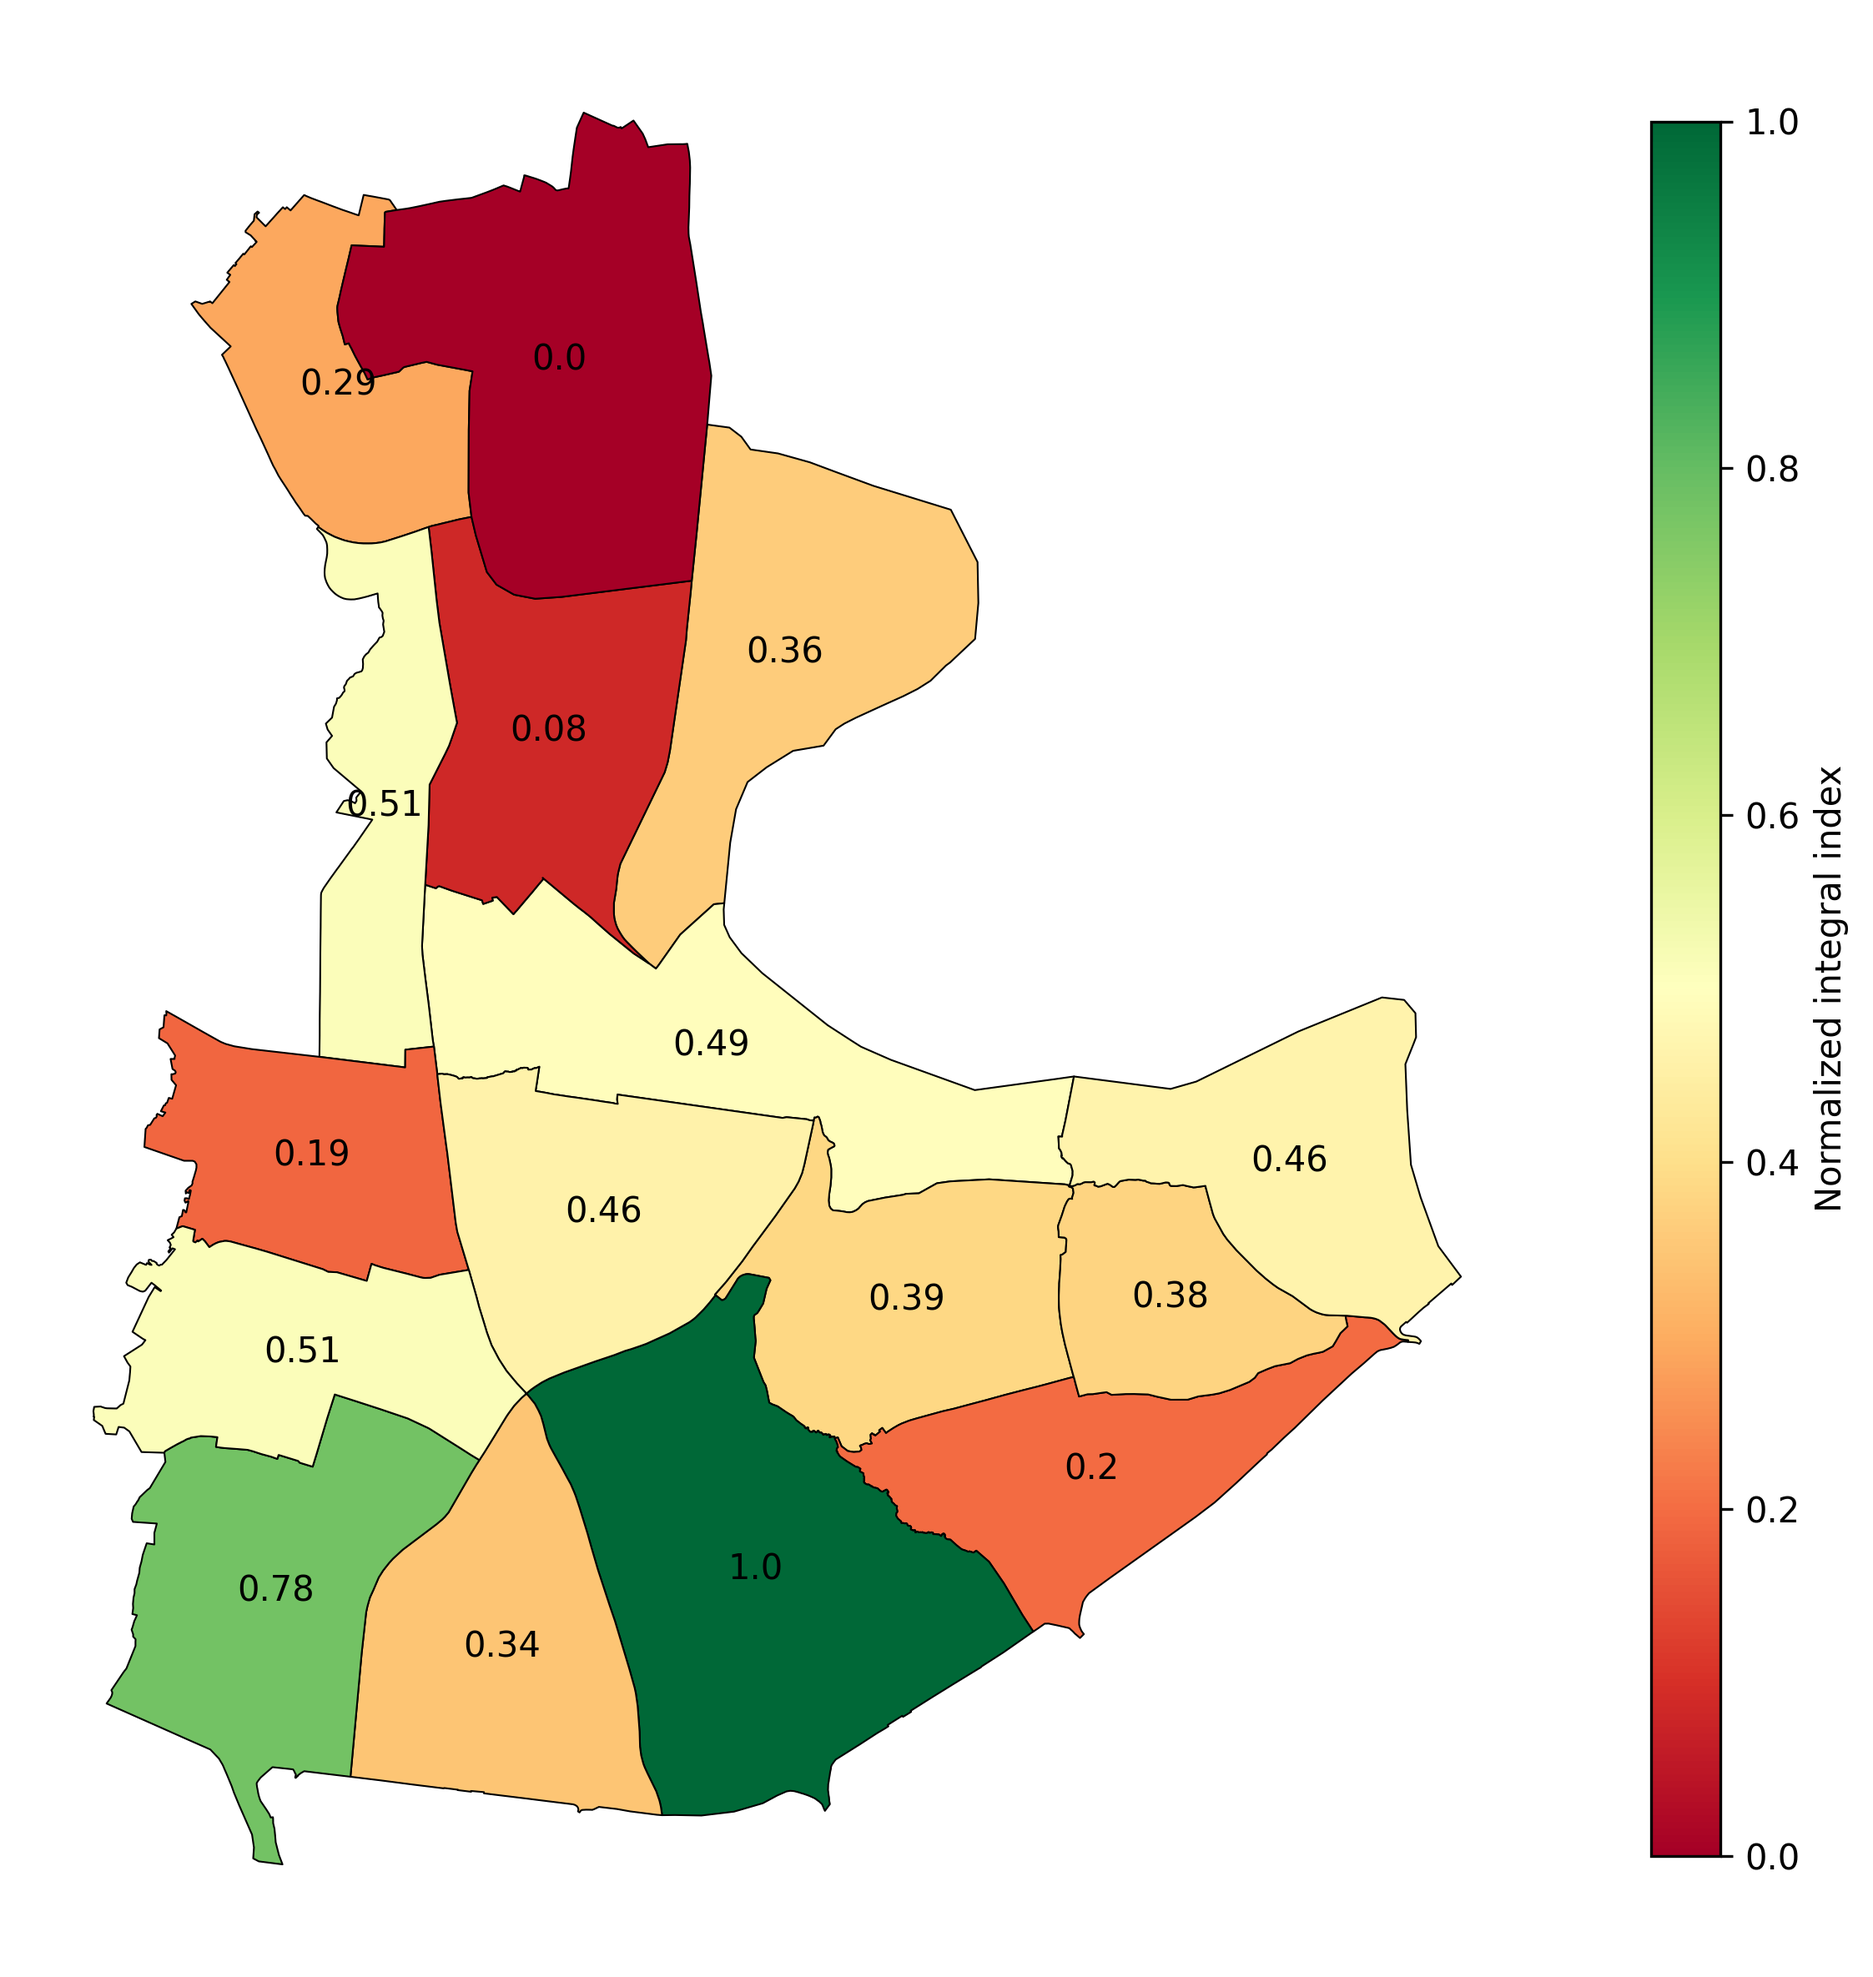
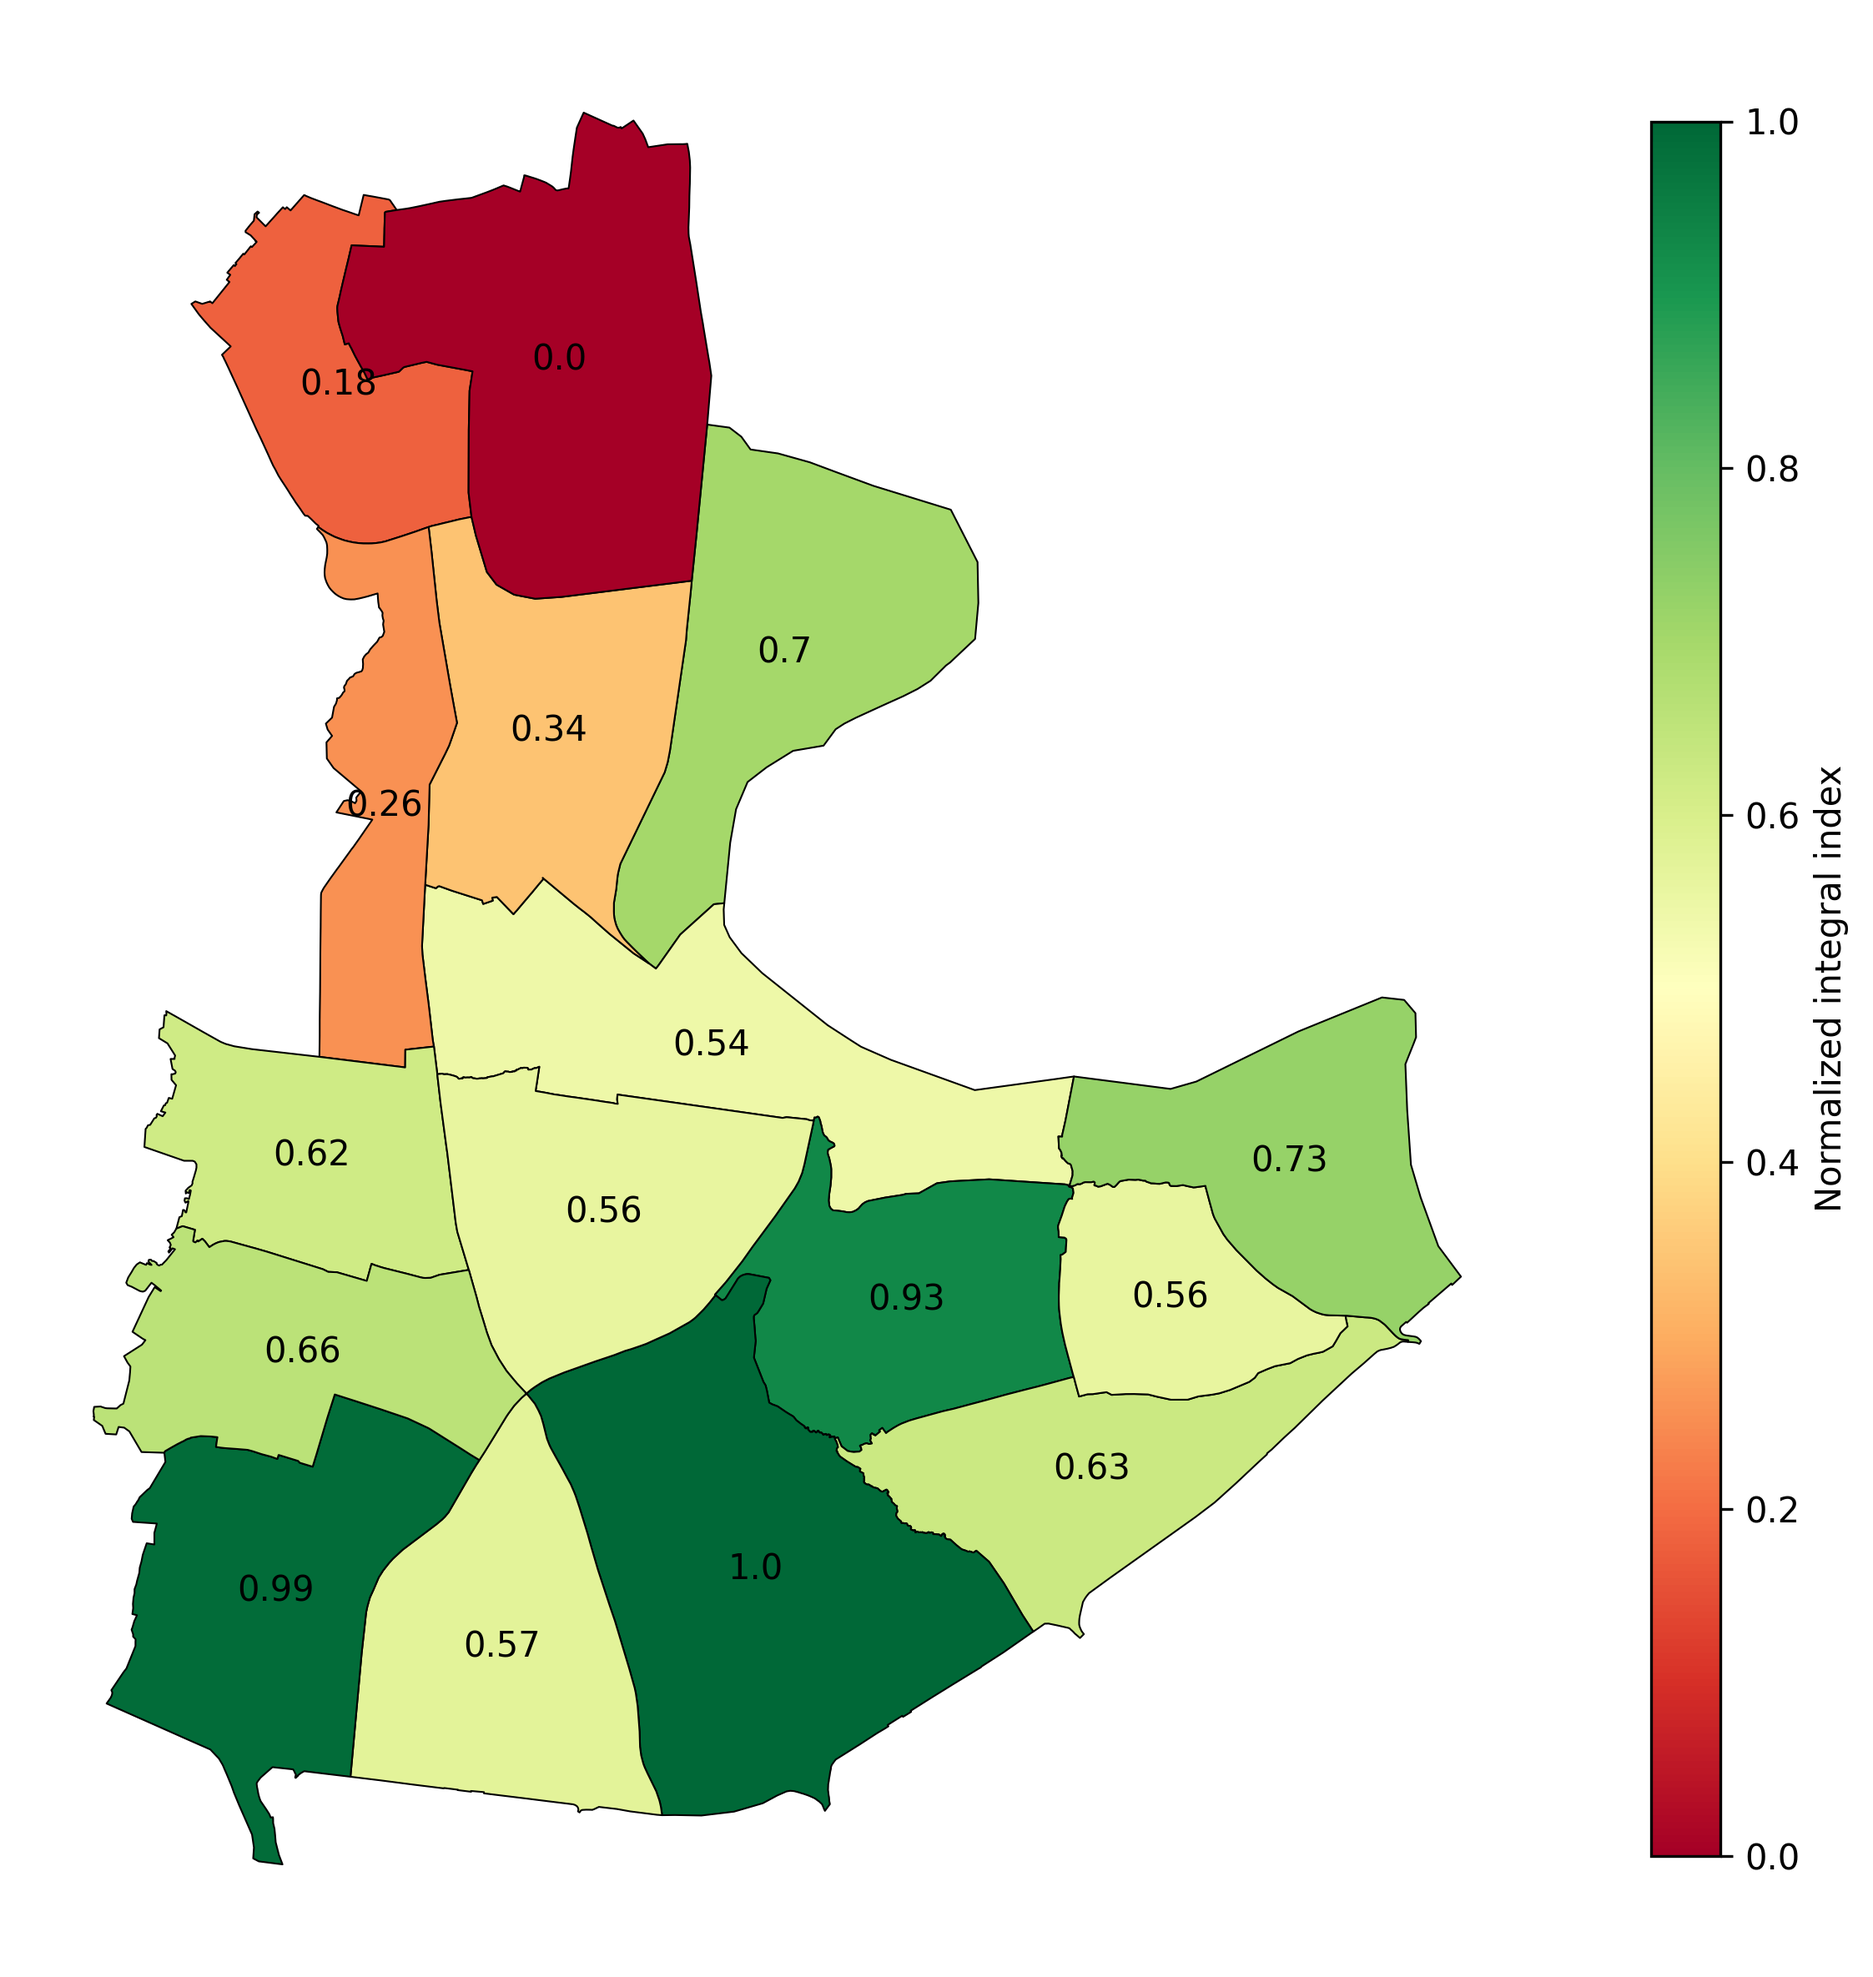
fix: correct normalization alignment for road and build density - fixed order mismatch - indices are correctly assigned to districts - the integral map was updated

Changed region(s): [[0.0624, 0.0937, 0.5301, 0.9367], [0.3742, 0.4996, 0.7795, 0.843], [0.3742, 0.4996, 0.4053, 0.5308]]

diff --git a/modules/criteria.py b/modules/criteria.py
@@ -77,10 +77,14 @@ def compute_roads_density(districts_gdf, roads, buffer=100):
     roads_c = roads.copy()
     
     roads_c['geometry'] = roads_c.geometry.buffer(buffer)
-    road_density_gdf = gpd.overlay(roads_c, districts_gdf, how='intersection', keep_geom_type=True).dissolve(by='name')
-    road_density_gdf = road_density_gdf.reset_index()
+    road_density_gdf = (
+        gpd.overlay(roads_c, districts_gdf, how='intersection', keep_geom_type=True)
+        .dissolve(by='name')
+        .reset_index())
+    
     road_density_gdf['road_density'] = (road_density_gdf.geometry.area / 10000) / road_density_gdf['area_ha']
-
+    road_density_gdf = districts_gdf.merge(road_density_gdf.drop(columns=['geometry']), on='name', how='left')
+    
     return road_density_gdf.to_crs(WGS84)
 
 
@@ -93,6 +97,8 @@ def compute_build_density(districts_gdf, bld):
         .agg({'bld_area_ha': 'sum'})
         .merge(districts_gdf[['name', 'area_ha', 'geometry']], on='name', how='left')
     )
+
     build_density_gdf['build_density'] = build_density_gdf['bld_area_ha'] / build_density_gdf['area_ha']
+    build_density_gdf = districts_gdf.merge(build_density_gdf.drop(columns=['geometry']), on='name', how='left')
 
     return build_density_gdf.to_crs(WGS84)
